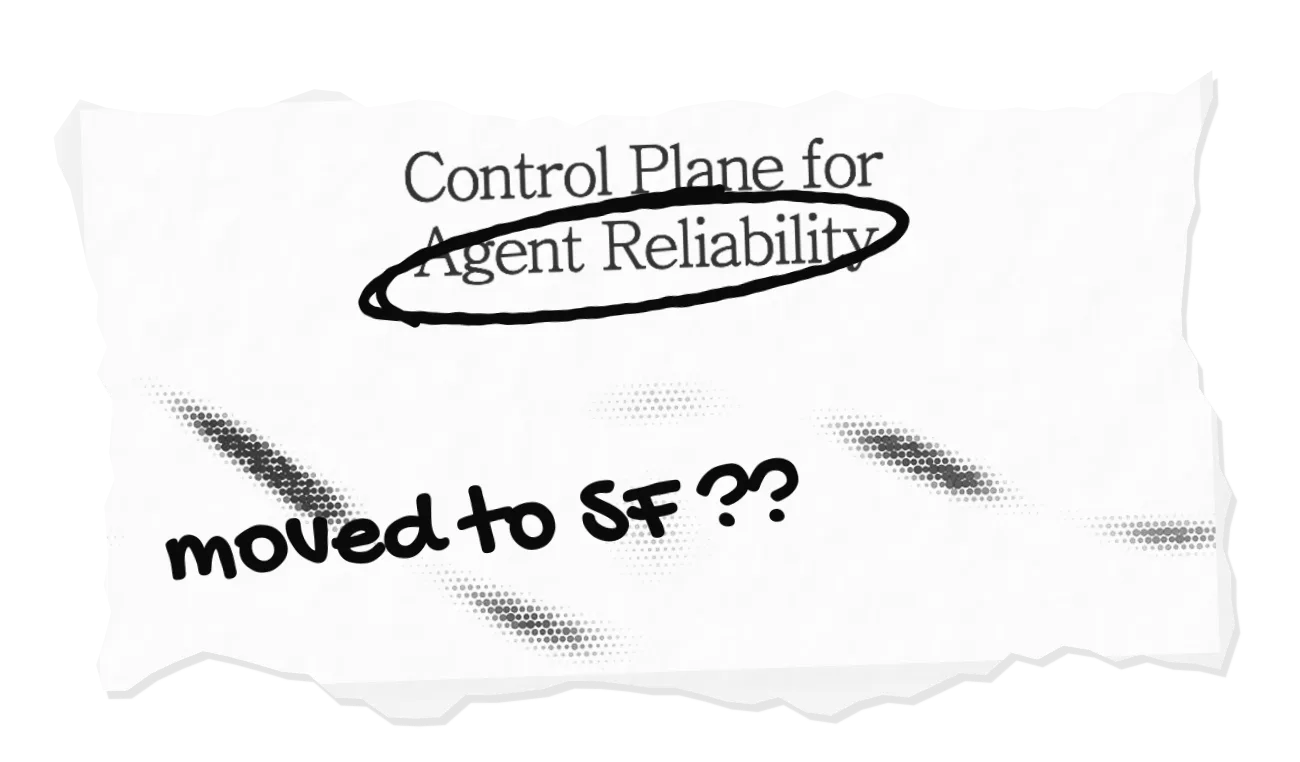
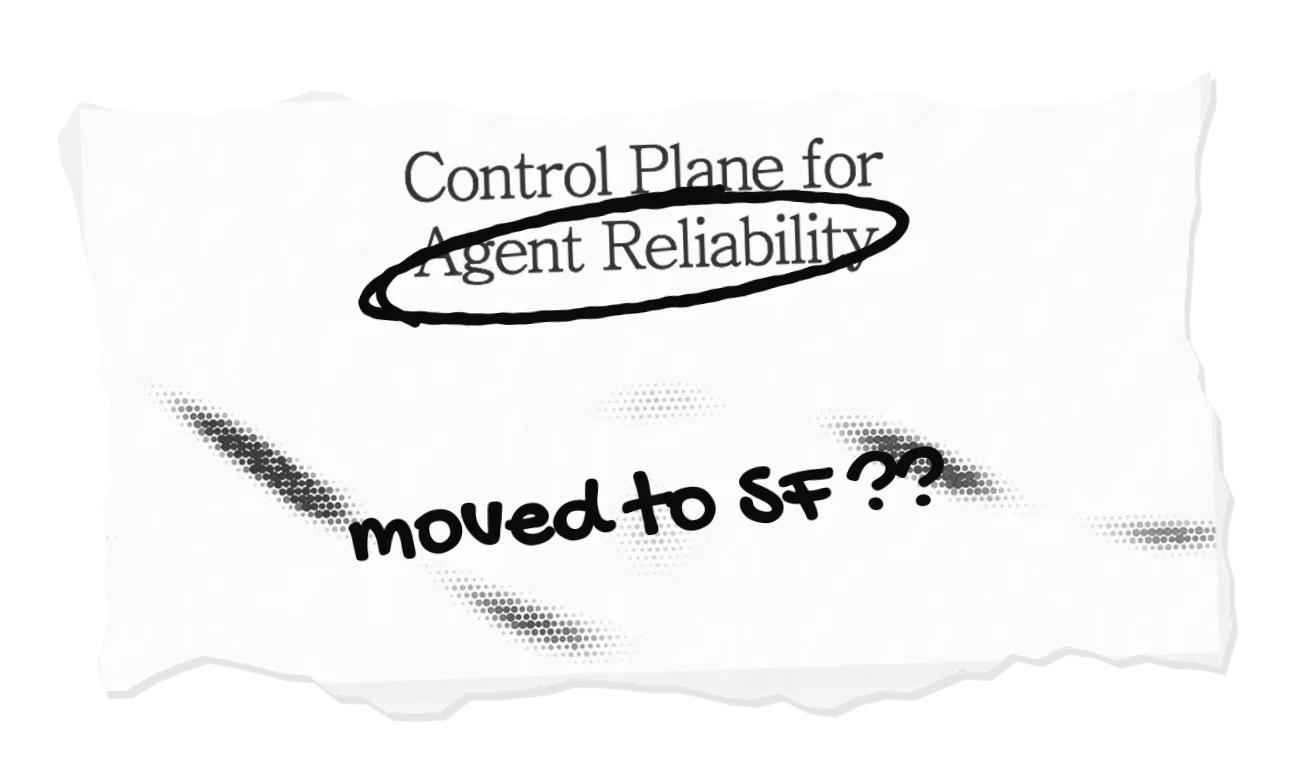
assets: centre the handwriting on the torn notes
"moved to SF ??" was jammed into the corner and "back in Waterloo ??"
ran into the torn bottom edge; both are now centred in the open space
with clear margin, and the OpenAI note is a little taller to make room.

Changed region(s): [[0.1231, 0.5735, 0.7385, 0.7546], [0.6154, 0.9357, 0.6462, 0.9659], [0.1538, 0.8451, 0.1846, 0.8753]]

diff --git a/src/components/scenes/Scene02Corkboard/Scene02Corkboard.jsx b/src/components/scenes/Scene02Corkboard/Scene02Corkboard.jsx
@@ -994,7 +994,7 @@ export default function Scene02Corkboard() {
                   src="/openai_note.webp"
                   alt="Torn OpenAI Student Collective note"
                   width={1300}
-                  height={538}
+                  height={628}
                   sizes="300px"
                   className="h-auto w-full drop-shadow-[0_1px_2px_rgba(0,0,0,1)]"
                 />
